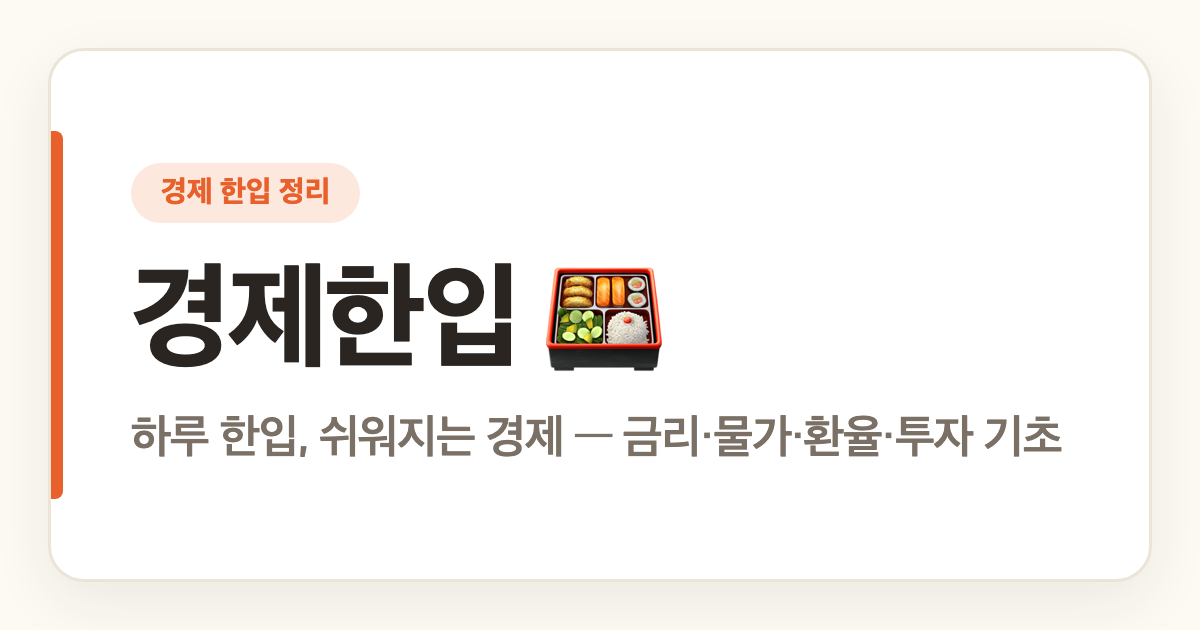
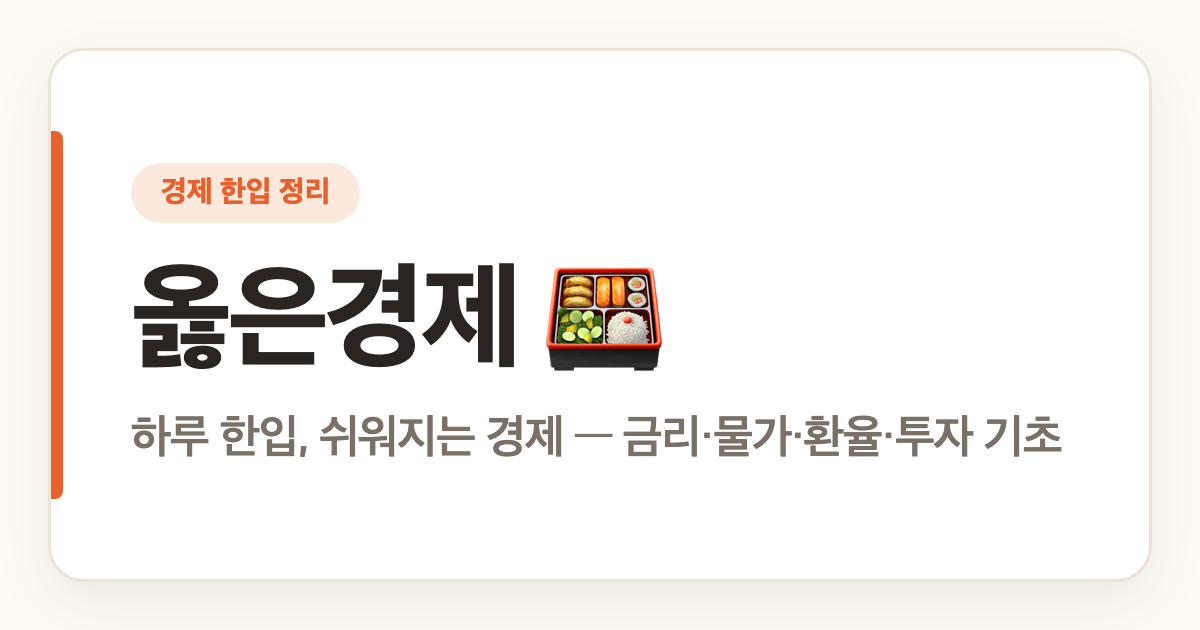
rebrand: 사이트명 경제한입 → 옳은경제 (right economy)
- SITE_NAME·로고·타이틀·푸터·푸터·글쓰기 가이드 전부 '옳은경제'로
- 도메인 econ-bite.pages.dev → right-economy.pages.dev (astro.config·robots)
- OG 이미지 재생성(옳은경제 🍱)
- '한입' 컨셉(🍱·태그라인·한입 정리)은 그대로 유지 (대표님 지시)
- repo명 econ-bite은 유지 (자동화 경로 보존)

Changed region(s): [[0.0925, 0.3921, 0.4317, 0.6032]]

diff --git a/src/consts.ts b/src/consts.ts
@@ -1,5 +1,5 @@
 // 사이트 전역 상수 (SEO·수익화 공용).
-export const SITE_NAME = '경제한입';
+export const SITE_NAME = '옳은경제';
 export const SITE_TAGLINE = '하루 한입, 쉬워지는 경제';
 export const SITE_DESCRIPTION =
   '금리·물가·환율부터 투자 기초까지. 어려운 경제를 한입 크기로 잘라 쉽게 정리하는 사이트.';

diff --git a/CLAUDE.md b/CLAUDE.md
@@ -1,6 +1,6 @@
-# 경제한입 🍱 — 자동 글쓰기 가이드
+# 옳은경제 🍱 — 자동 글쓰기 가이드
 
-경제한입은 경제 개념을 **한입 크기**로 정리하는 광고 수익형 콘텐츠 사이트 (Astro). 검색 유입(SEO)이 수익의 핵심이라, 정확하고 충실한 글을 꾸준히 쌓는 게 목표.
+옳은경제은 경제 개념을 **한입 크기**로 정리하는 광고 수익형 콘텐츠 사이트 (Astro). 검색 유입(SEO)이 수익의 핵심이라, 정확하고 충실한 글을 꾸준히 쌓는 게 목표.
 
 이 파일은 **2시간마다 도는 자동 글 생성 작업**이 따르는 가이드다.
 
